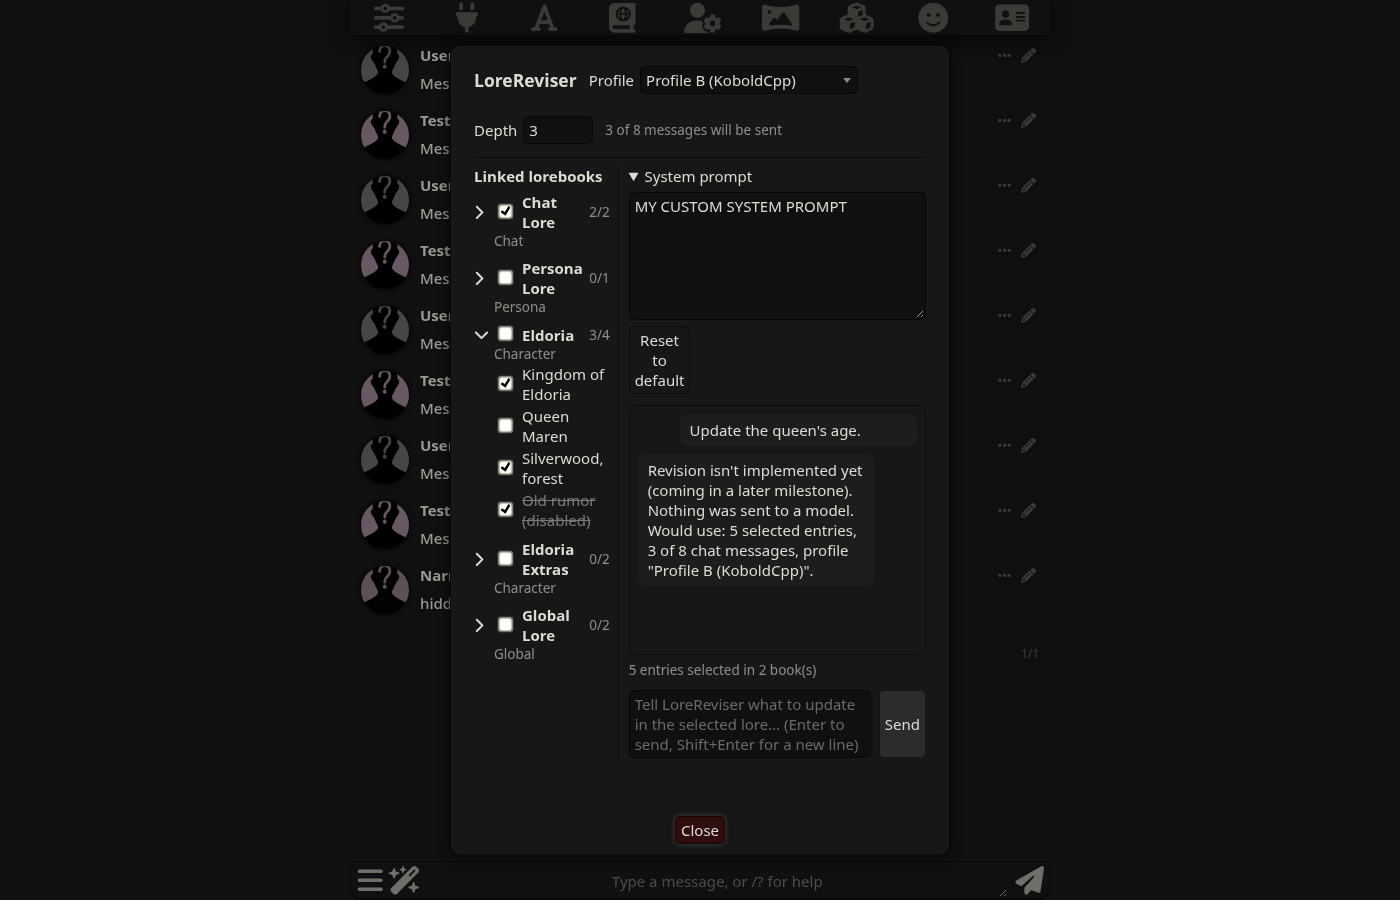
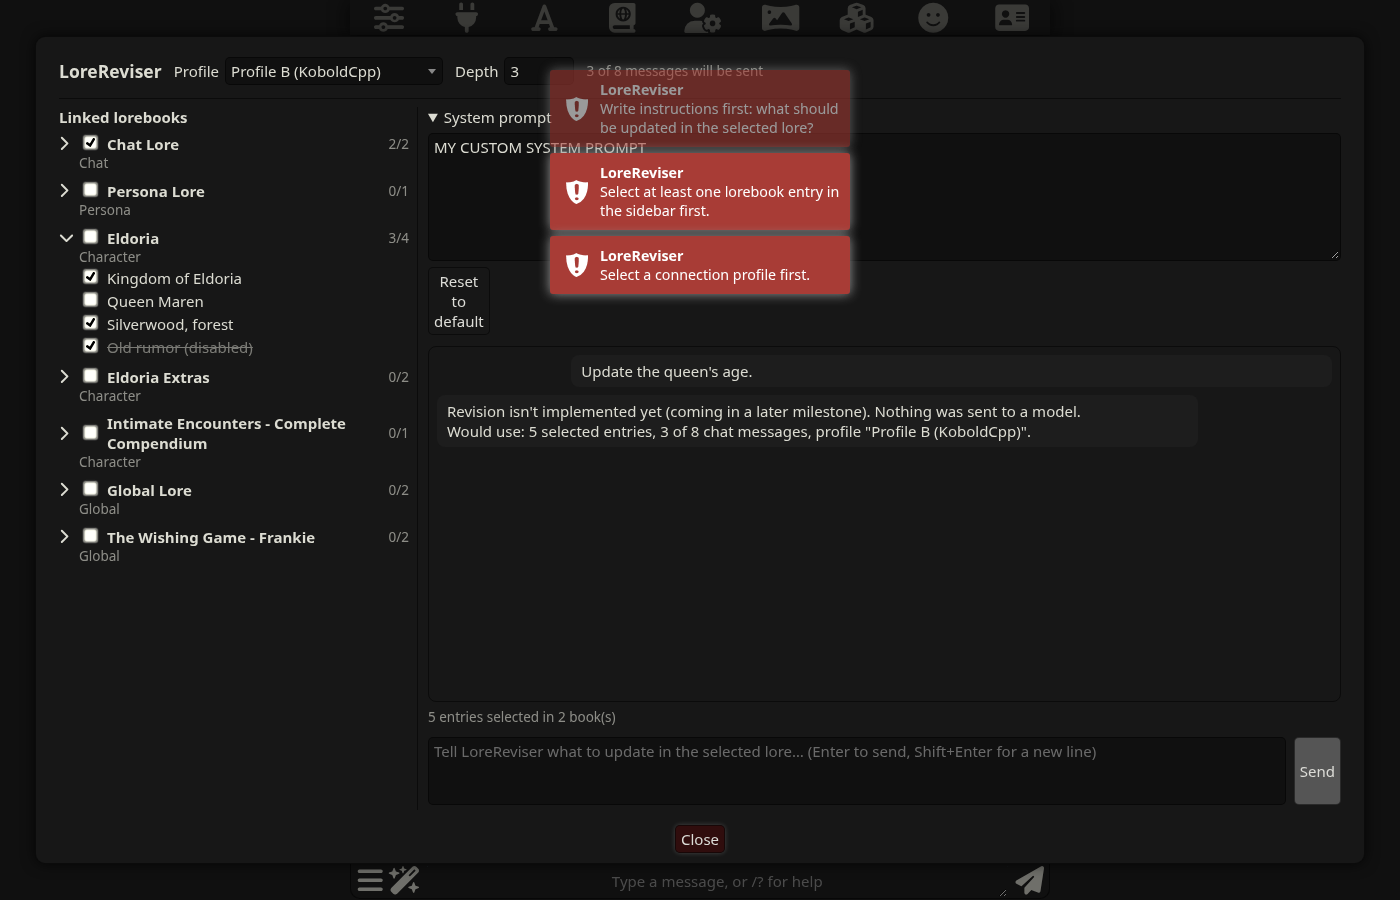
Fix modal width (ST popup is 500px wide) and validate profile/selection/instructions on Send

diff --git a/modal.js b/modal.js
@@ -88,6 +88,7 @@ export async function openModal() {
         return;
     }
 
+    conversation = conversation.filter(m => m.role !== 'error'); // errors don't survive closing the modal
     const { settings, save } = getSettings();
     const $root = $(TEMPLATE);
     const selection = loadSelection();
@@ -204,18 +205,42 @@ export async function openModal() {
         $chat.scrollTop($chat[0].scrollHeight);
     }
 
+    /** Shows an error as a toast and as a red message in the chat window (replacing a previous error). */
+    function showError(text) {
+        toastr.error(text, 'LoreReviser');
+        if (conversation.at(-1)?.role === 'error') conversation.pop();
+        conversation.push({ role: 'error', text });
+        renderChat();
+    }
+
+    /** The chosen Connection Manager profile, or null. The placeholder option (empty value) counts as none. */
+    function getChosenProfile() {
+        const id = String($profile.val() ?? '');
+        if (!id) return null;
+        try {
+            return SillyTavern.getContext().ConnectionManagerRequestService.getSupportedProfiles().find(p => p.id === id) ?? null;
+        } catch { return null; }
+    }
+
     function send() {
         const $input = $root.find('#lorerev_input');
         const text = String($input.val()).trim();
-        if (!text) return;
-        $input.val('');
+        const profile = getChosenProfile();
         const picked = [...selection.values()].reduce((n, s) => n + s.size, 0);
+
+        // Validate first. On any error nothing is echoed and the typed text stays in the box.
+        if (!profile) return showError('Select a connection profile first.');
+        if (!picked) return showError('Select at least one lorebook entry in the sidebar first.');
+        if (!text) return showError('Write instructions first: what should be updated in the selected lore?');
+
+        $input.val('');
+        conversation = conversation.filter(m => m.role !== 'error'); // drop stale errors
         const { used, total } = messageCounts(settings.depth);
         conversation.push({ role: 'user', text });
         conversation.push({
             role: 'assistant',
             text: `Revision isn't implemented yet (coming in a later milestone). Nothing was sent to a model.\n`
-                + `Would use: ${picked} selected entries, ${used} of ${total} chat messages, profile "${$profile.find('option:selected').text()}".`,
+                + `Would use: ${picked} selected entries, ${used} of ${total} chat messages, profile "${profile.name}".`,
         });
         renderChat();
     }
@@ -242,5 +267,8 @@ export async function openModal() {
             renderBooks();
         },
     });
+    // ST's 'large' option sets height and max-width but leaves the popup at its default 500px width,
+    // so add our own class (see style.css) that makes it wide.
+    popup.dlg.classList.add('lorerev_popup');
     await popup.show();
 }

diff --git a/style.css b/style.css
@@ -1,5 +1,13 @@
 /* LoreReviser modal */
-.lorerev_root { display: flex; flex-direction: column; height: 78vh; text-align: left; }
+/* ST's .popup is 500px wide and 'large' only raises max-width, so set the width ourselves. */
+.popup.lorerev_popup {
+    width: min(95vw, 1800px) !important;
+    max-width: 95vw !important;
+    height: 92vh !important;
+    height: 92dvh !important;
+}
+.lorerev_popup .popup-content { display: flex; flex-direction: column; min-height: 0; }
+.lorerev_root { display: flex; flex-direction: column; flex: 1; min-height: 0; text-align: left; }
 .lorerev_header { display: flex; flex-wrap: wrap; align-items: center; gap: 12px; padding-bottom: 8px; border-bottom: 1px solid var(--SmartThemeBorderColor); }
 .lorerev_header h3 { margin: 0; }
 .lorerev_header label { display: flex; align-items: center; gap: 6px; }
@@ -8,11 +16,11 @@
 .lorerev_body { display: flex; flex: 1; min-height: 0; gap: 10px; padding-top: 8px; }
 
 /* sidebar */
-.lorerev_sidebar { flex: 0 0 32%; max-width: 380px; overflow-y: auto; border-right: 1px solid var(--SmartThemeBorderColor); padding-right: 8px; }
+.lorerev_sidebar { flex: 0 0 clamp(300px, 28%, 380px); overflow-y: auto; border-right: 1px solid var(--SmartThemeBorderColor); padding-right: 8px; }
 .lorerev_sidebar_title { font-weight: bold; margin-bottom: 6px; }
 .lorerev_book { margin-bottom: 8px; }
 .lorerev_book_row { display: flex; align-items: center; gap: 6px; cursor: pointer; }
-.lorerev_book_name { flex: 1; font-weight: bold; word-break: break-word; }
+.lorerev_book_name { flex: 1; font-weight: bold; overflow-wrap: break-word; min-width: 0; }
 .lorerev_toggle { width: 14px; }
 .lorerev_book_sources { margin-left: 20px; }
 .lorerev_entries { margin-left: 20px; }
@@ -25,11 +33,12 @@
 .lorerev_chat { flex: 1; min-height: 0; overflow-y: auto; border: 1px solid var(--SmartThemeBorderColor); border-radius: 8px; padding: 8px; }
 .lorerev_msg { white-space: pre-wrap; margin-bottom: 8px; padding: 6px 10px; border-radius: 8px; max-width: 85%; }
 .lorerev_msg.lorerev_user { margin-left: auto; background: var(--SmartThemeUserMesBlurTintColor); }
+.lorerev_msg.lorerev_error { background: rgba(160, 30, 30, 0.45); border: 1px solid #c33; }
 .lorerev_msg.lorerev_assistant { background: var(--SmartThemeBotMesBlurTintColor); }
 .lorerev_input { display: flex; gap: 8px; align-items: stretch; }
 .lorerev_input textarea { flex: 1; resize: none; }
 
 @media (max-width: 800px) {
     .lorerev_body { flex-direction: column; }
-    .lorerev_sidebar { flex: 0 0 35%; max-width: none; border-right: none; border-bottom: 1px solid var(--SmartThemeBorderColor); }
+    .lorerev_sidebar { flex: 0 0 35%; max-width: none; padding-right: 0; border-right: none; border-bottom: 1px solid var(--SmartThemeBorderColor); }
 }

diff --git a/README.md b/README.md
@@ -15,7 +15,7 @@ Requires SillyTavern **1.19.0 or newer** (the Connection Manager extension must 
 - **Profile:** a Connection Manager profile used only by LoreReviser (independent of your main connection).
 - **System prompt:** editable, with a reset button. Saved in extension settings.
 - **Depth:** send only the last X chat messages (0 = whole chat; hidden messages are not counted).
-- **Chat window:** type instructions and press Enter (Shift+Enter for a new line).
+- **Chat window:** type instructions and press Enter (Shift+Enter for a new line). Sending needs a profile, at least one selected entry, and non-empty instructions; otherwise a red error is shown and nothing is sent.
 
 ## Install on Windows (PowerShell)
 
